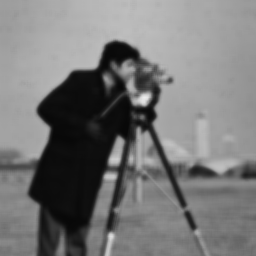
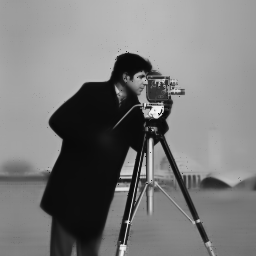
corrected main

diff --git a/main.cpp b/main.cpp
@@ -10,7 +10,7 @@ using namespace std;
 
 // run using: g++ -std=c++11 main.cpp -o main `pkg-config --cflags --libs opencv`
 
-cv::Mat NL_Means(cv::Mat src, int h = 2, int windowSize=3, int searchWindowSize=7)
+cv::Mat NL_Means(cv::Mat src, float h = 0.5, int windowSize=11, int searchWindowSize=23)
 {
     int rows = src.rows;
     int cols = src.cols;
@@ -21,7 +21,7 @@ cv::Mat NL_Means(cv::Mat src, int h = 2, int windowSize=3, int searchWindowSize=
 
     cout << "Performing NL_Means on the Image" << endl;
 
-    vector<vector<float> > paddedImage = padImage(src, searchWindowSize);
+    vector<vector<float> > paddedImage = padImage(src, 2*halfSearchWindowSize + 2*halfWindowSize);
     paddedImage = floatImage(paddedImage);
 
     vector<vector<float> > outputImage(rows, vector<float>(cols));
@@ -39,7 +39,7 @@ cv::Mat NL_Means(cv::Mat src, int h = 2, int windowSize=3, int searchWindowSize=
                     float tempSimilaritySum = 0;
                     for(int m=-halfWindowSize; m<=halfWindowSize; m++){
                         for(int n=-halfWindowSize; n<=halfWindowSize; n++){
-                            dist += pow(paddedImage[i+k+halfSearchWindowSize][j+l+halfSearchWindowSize] - paddedImage[i+m+halfSearchWindowSize][j+n+halfSearchWindowSize], 2);
+                            dist += pow(paddedImage[i+m+k+halfSearchWindowSize+halfWindowSize][j+n+l+halfSearchWindowSize+halfWindowSize] - paddedImage[i+m+halfSearchWindowSize+halfWindowSize][j+n+halfSearchWindowSize+halfWindowSize], 2);
                             // cout<< i+k+halfSearchWindowSize << " : "<< j+l+halfSearchWindowSize << " \n ";
                             // cout<< i+m+halfSearchWindowSize << " : "<< j+n+halfSearchWindowSize <<endl;
                             // if (i+k+halfSearchWindowSize < 0 || j+l+halfSearchWindowSize < 0 || i+m+halfSearchWindowSize < 0 || j+n+halfSearchWindowSize < 0){
@@ -53,7 +53,7 @@ cv::Mat NL_Means(cv::Mat src, int h = 2, int windowSize=3, int searchWindowSize=
                     // cout<<dist<<endl;
                     float w = exp(-dist/(h));
 
-                    weightedSum += w*paddedImage[i+k+halfSearchWindowSize][j+l+halfSearchWindowSize];
+                    weightedSum += w*paddedImage[i+k+halfSearchWindowSize+halfWindowSize][j+l+halfSearchWindowSize+halfWindowSize];
                     similaritySum += w;
                 }
             }
